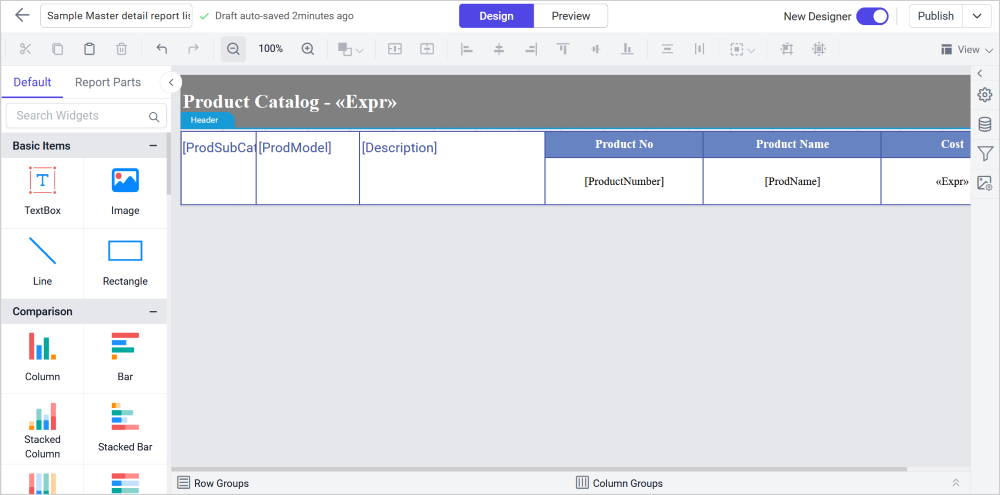
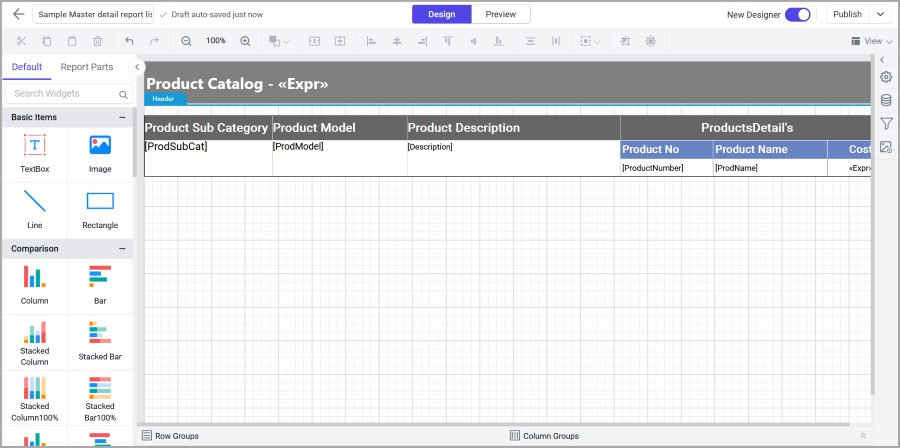
Mar 5, 2024, 9:00 AM

diff --git a/docs/designer-guide/report-designer/how-to/create-master-detail-report-using-list.md b/docs/designer-guide/report-designer/how-to/create-master-detail-report-using-list.md
@@ -52,8 +52,8 @@ Drag the list report item from the Data Regions to the design area and assign th
 Organize your data by adding groups to the list table  .
    ![Master table design](/static/assets/on-premise/images/report-designer/how-to/master-details-nested-item/initail-list-design.png '#width=600px')
 
-8. Cut the detail table from design area and paste inside the list as shown in the following image.
+8. Cut the detail table from design area and paste inside the list on product details column as shown in the following image.
    ![Master table design](/static/assets/on-premise/images/report-designer/how-to/master-details-nested-item/final-list-design.png '#width=600px')
 
-9. Click on the Preview at the top-right corner of the Report Designer toolbar to see the output result.
+9. Click on the Preview at the top centre of the Report Designer toolbar to see the output result.
    ![Output](/static/assets/on-premise/images/report-designer/how-to/master-details-nested-item/output-list.png '#width=600px')
